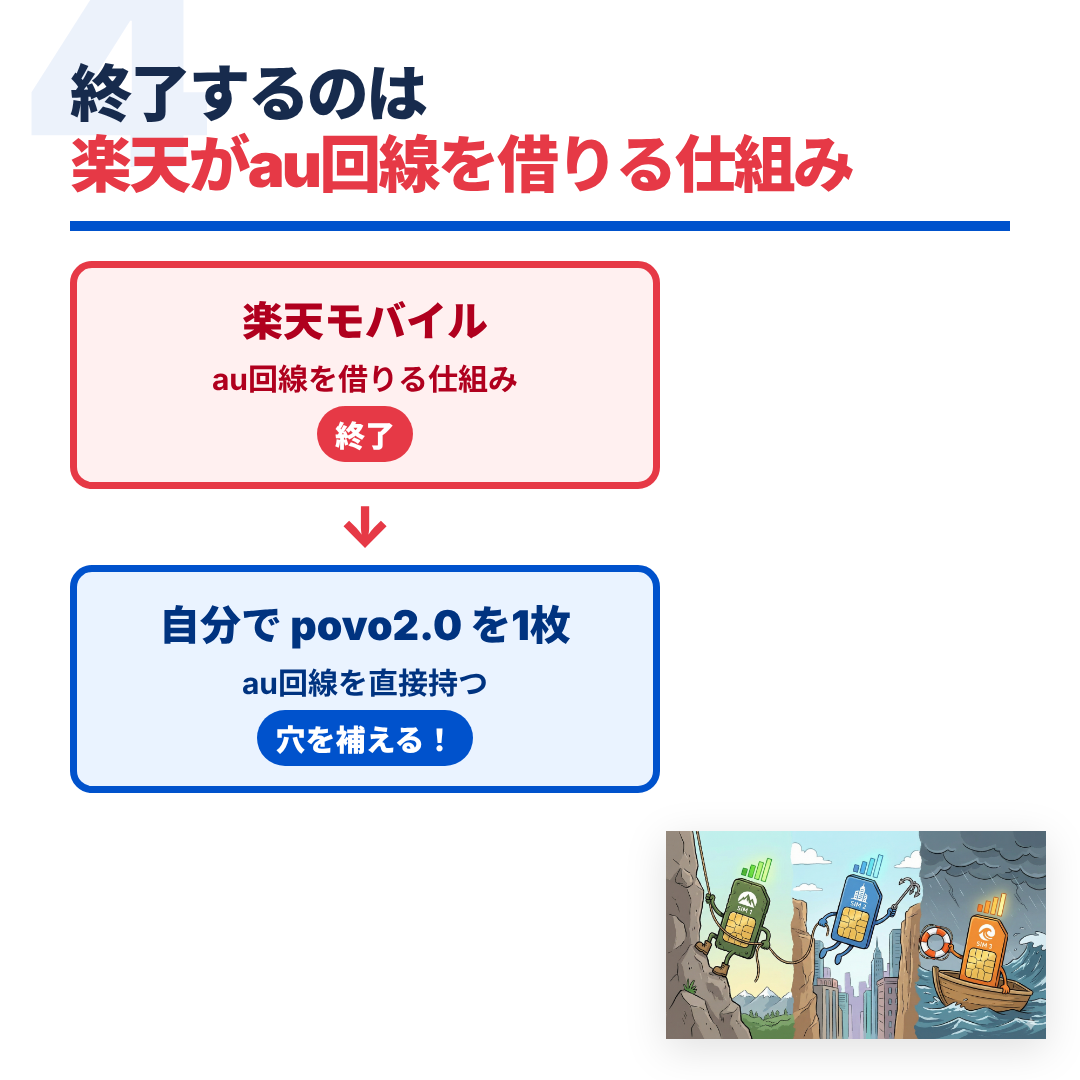
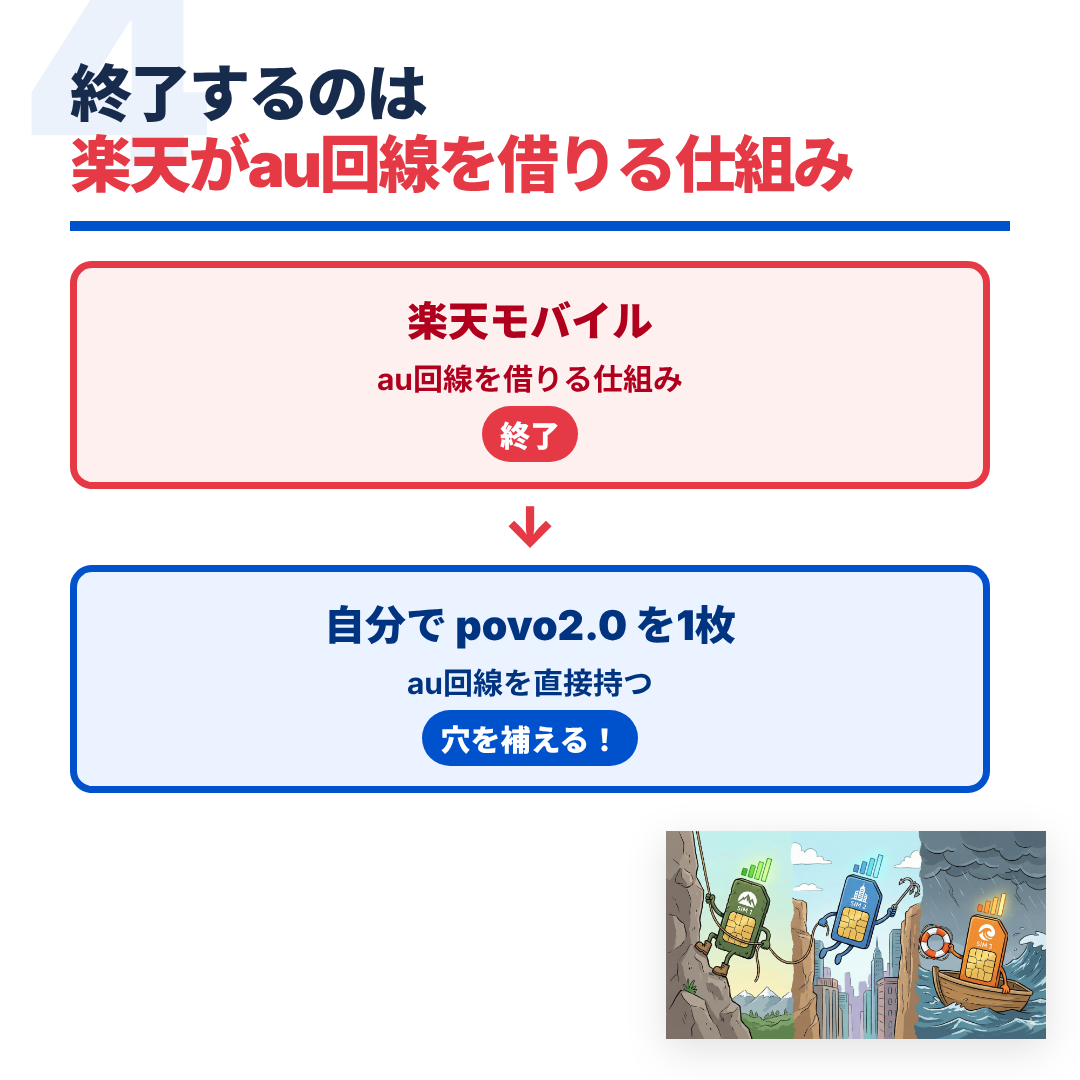
スライド微修正

diff --git a/slides-short.html b/slides-short.html
@@ -346,7 +346,7 @@
       /* Mechanism: reserve a dedicated right-bottom visual zone so the explanatory
    cards never extend beneath the illustration. */
       .mechanism-slide .slide-body {
-        width: 590px;
+        width: 920px;
       }
       .mechanism-flow {
         display: flex;
